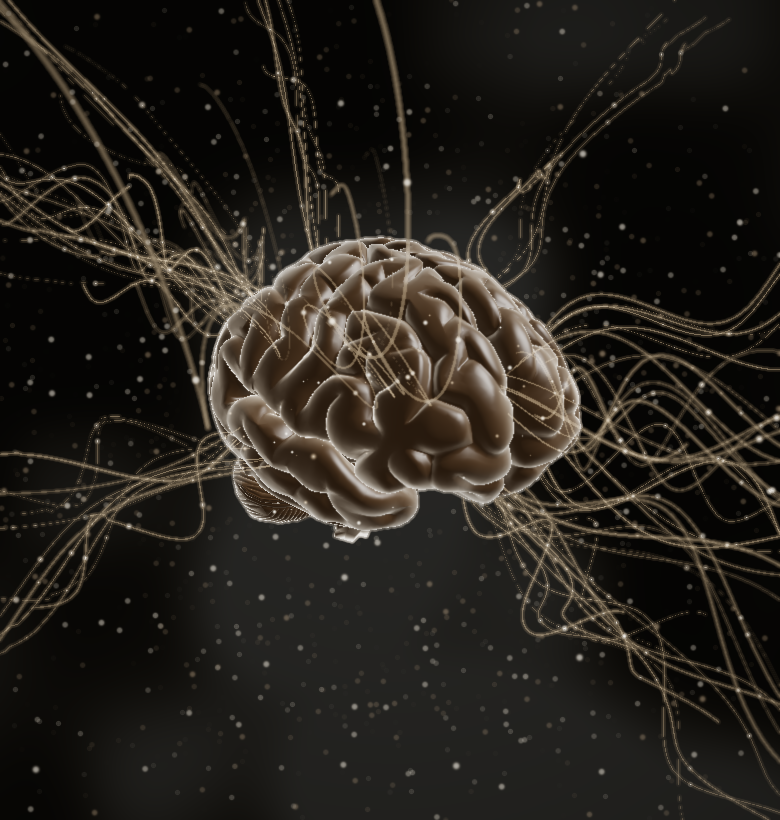
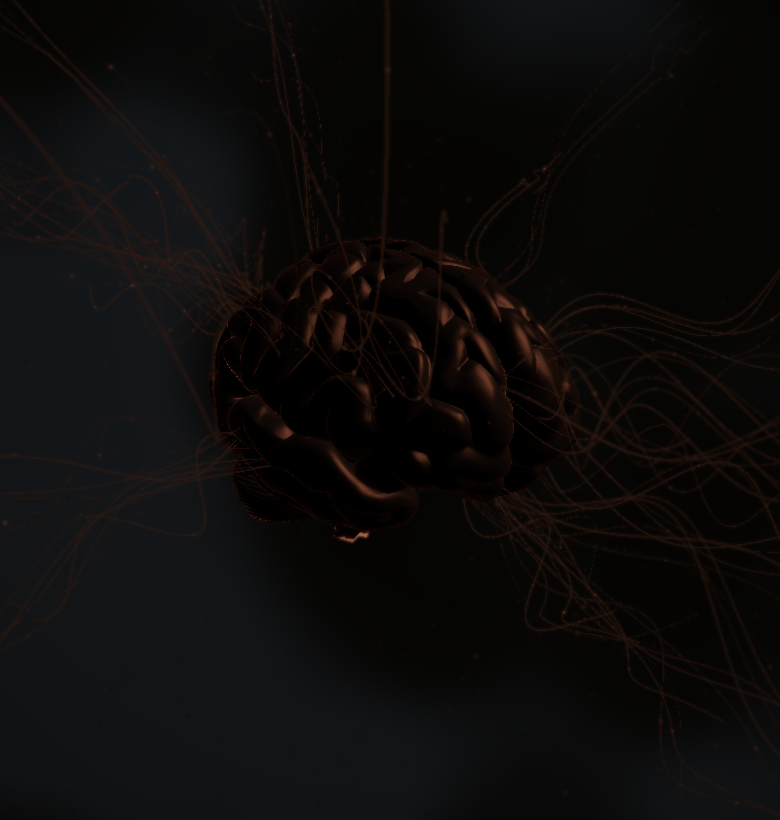
Apply accepted brown-black art and subscriber story

diff --git a/src/components/home/digital-brain/art/shaders/brain-brain.frag.js b/src/components/home/digital-brain/art/shaders/brain-brain.frag.js
@@ -1,4 +1,4 @@
 // Adapted from Digital Brain, Copyright (c) 2026 Sahil K (MIT).
 // See /uploads/digital-brain-foundation/CREDITS.md for source, license and modifications.
-const shaderCode = "uniform vec3 uBaseColor;\nuniform vec3 uFresnelColor;\nuniform float uFresnelPower;\nuniform float uFresnelIntensity;\n\nuniform float uSpecularIntensity;\nuniform float uSpecularShininess;\nuniform float uRoughness;\nuniform vec3 uLightPosition;\n\nuniform float uTime;\nuniform vec3 uElectricColor;\nuniform float uElectricIntensity;\nuniform float uElectricSpeed;\nuniform float uElectricFrequency;\n\nvarying vec3 vNormal;\nvarying vec3 vViewPosition;\nvarying vec3 vWorldPosition;\nvarying vec3 vWorldNormal;\n\nfloat specular(vec3 normal, vec3 viewDir, vec3 lightDir, float shininess) {\n    vec3 halfVector = normalize(lightDir + viewDir);\n    float specAngle = max(dot(halfVector, normal), 0.0);\n    return pow(specAngle, shininess);\n}\n\nfloat fresnel(vec3 normal, vec3 viewDir, float power) {\n    return pow(1.0 - max(dot(normal, viewDir), 0.0), power);\n}\n\nfloat ambientOcclusion(vec3 normal, vec3 viewDir) {\n    float ao = dot(normal, viewDir);\n    ao = smoothstep(0.0, 0.5, ao);\n    return mix(0.6, 1.0, ao);\n}\n\nvoid main() {\n    vec3 normal = normalize(vNormal);\n    vec3 viewDir = normalize(vViewPosition);\n    vec3 worldNormal = normalize(vWorldNormal);\n\n    vec3 lightDir = normalize(uLightPosition - vWorldPosition);\n\n    float diffuse = max(dot(worldNormal, lightDir), 0.0);\n    diffuse = mix(0.3, 1.0, diffuse);\n\n    float ao = ambientOcclusion(normal, viewDir);\n\n    vec3 color = uBaseColor * diffuse * ao;\n\n    float spec = specular(worldNormal, normalize(cameraPosition - vWorldPosition), lightDir, uSpecularShininess);\n\n    float roughnessFactor = 1.0 - uRoughness;\n    spec *= roughnessFactor;\n\n    color += vec3(1.0) * spec * uSpecularIntensity;\n\n    float fresnelValue = fresnel(normal, viewDir, uFresnelPower);\n    vec3 rimLight = uFresnelColor * fresnelValue * uFresnelIntensity;\n    color += rimLight;\n\n    float edgeGlow = pow(fresnelValue, 3.0) * 0.3;\n    color += vec3(1.0) * edgeGlow;\n\n    float electricEdge = pow(fresnelValue, 1.5);\n\n    float wave1 = sin(vWorldPosition.y * uElectricFrequency + uTime * uElectricSpeed) * 0.5 + 0.5;\n    float wave2 = sin(vWorldPosition.x * uElectricFrequency * 1.3 - uTime * uElectricSpeed * 0.8) * 0.5 + 0.5;\n    float wave3 = sin(vWorldPosition.z * uElectricFrequency * 0.7 + uTime * uElectricSpeed * 1.2) * 0.5 + 0.5;\n\n    float electricPulse = wave1 * 0.5 + wave2 * 0.3 + wave3 * 0.2;\n    electricPulse = pow(electricPulse, 2.0);\n\n    float electricHighlight = electricEdge * electricPulse;\n    electricHighlight = pow(electricHighlight, 0.8);\n\n    vec3 electricGlow = uElectricColor * electricHighlight * uElectricIntensity;\n\n    float sparkle = pow(electricHighlight, 3.0) * 2.0;\n    electricGlow += vec3(1.0, 0.9, 0.8) * sparkle;\n\n    color += electricGlow;\n\n    gl_FragColor = vec4(color, 1.0);\n}\n";
+const shaderCode = "uniform vec3 uBaseColor;\nuniform vec3 uFresnelColor;\nuniform float uFresnelPower;\nuniform float uFresnelIntensity;\n\nuniform float uSpecularIntensity;\nuniform vec3 uHighlightColor;\nuniform float uEdgeIntensity;\nuniform float uDiffuseFloor;\nuniform float uDiffuseIntensity;\nuniform float uOcclusionFloor;\nuniform float uSpecularShininess;\nuniform float uRoughness;\nuniform vec3 uLightPosition;\n\nuniform float uTime;\nuniform vec3 uElectricColor;\nuniform float uElectricIntensity;\nuniform float uElectricSpeed;\nuniform float uElectricFrequency;\n\nvarying vec3 vNormal;\nvarying vec3 vViewPosition;\nvarying vec3 vWorldPosition;\nvarying vec3 vWorldNormal;\n\nfloat specular(vec3 normal, vec3 viewDir, vec3 lightDir, float shininess) {\n    vec3 halfVector = normalize(lightDir + viewDir);\n    float specAngle = max(dot(halfVector, normal), 0.0);\n    return pow(specAngle, shininess);\n}\n\nfloat fresnel(vec3 normal, vec3 viewDir, float power) {\n    return pow(1.0 - max(dot(normal, viewDir), 0.0), power);\n}\n\nfloat ambientOcclusion(vec3 normal, vec3 viewDir) {\n    float ao = dot(normal, viewDir);\n    ao = smoothstep(0.0, 0.5, ao);\n    return mix(uOcclusionFloor, 1.0, ao);\n}\n\nvoid main() {\n    vec3 normal = normalize(vNormal);\n    vec3 viewDir = normalize(vViewPosition);\n    vec3 worldNormal = normalize(vWorldNormal);\n\n    vec3 lightDir = normalize(uLightPosition - vWorldPosition);\n\n    float diffuse = max(dot(worldNormal, lightDir), 0.0);\n    diffuse = mix(uDiffuseFloor, uDiffuseIntensity, diffuse);\n\n    float ao = ambientOcclusion(normal, viewDir);\n\n    vec3 color = uBaseColor * diffuse * ao;\n\n    float spec = specular(worldNormal, normalize(cameraPosition - vWorldPosition), lightDir, uSpecularShininess);\n\n    float roughnessFactor = 1.0 - uRoughness;\n    spec *= roughnessFactor;\n\n    color += uHighlightColor * spec * uSpecularIntensity;\n\n    float fresnelValue = fresnel(normal, viewDir, uFresnelPower);\n    vec3 rimLight = uFresnelColor * fresnelValue * uFresnelIntensity;\n    color += rimLight;\n\n    float edgeGlow = pow(fresnelValue, 3.0) * uEdgeIntensity;\n    color += uHighlightColor * edgeGlow;\n\n    float electricEdge = pow(fresnelValue, 1.5);\n\n    float wave1 = sin(vWorldPosition.y * uElectricFrequency + uTime * uElectricSpeed) * 0.5 + 0.5;\n    float wave2 = sin(vWorldPosition.x * uElectricFrequency * 1.3 - uTime * uElectricSpeed * 0.8) * 0.5 + 0.5;\n    float wave3 = sin(vWorldPosition.z * uElectricFrequency * 0.7 + uTime * uElectricSpeed * 1.2) * 0.5 + 0.5;\n\n    float electricPulse = wave1 * 0.5 + wave2 * 0.3 + wave3 * 0.2;\n    electricPulse = pow(electricPulse, 2.0);\n\n    float electricHighlight = electricEdge * electricPulse;\n    electricHighlight = pow(electricHighlight, 0.8);\n\n    vec3 electricGlow = uElectricColor * electricHighlight * uElectricIntensity;\n\n    float sparkle = pow(electricHighlight, 3.0) * 2.0;\n    electricGlow += uHighlightColor * sparkle;\n\n    color += electricGlow;\n\n    gl_FragColor = vec4(color, 1.0);\n}\n";
 export default shaderCode;

diff --git a/src/components/home/digital-brain/home.tsx b/src/components/home/digital-brain/home.tsx
@@ -12,7 +12,7 @@ export function DigitalBrainHome() {
     <Link href="#story-reading" className="skip">Skip to the story</Link>
     <header className="site-nav">
       <Link href="/" className="wordmark" aria-label="ExpertHub homepage">Expert<span>Hub</span><i aria-hidden="true">✳</i></Link>
-      <nav aria-label="Main navigation"><Link href="#plans">Pricing</Link><Link href="#apply-expert">Apply</Link><Link href="/login">Sign in</Link></nav>
+      <nav aria-label="Main navigation"><Link href="#plans">Pricing</Link><Link href="#apply-expert">Apply</Link><Link href="/login">Explore experts</Link></nav>
     </header>
     <BrainRuntime />
     <div className="viewport">
@@ -22,24 +22,23 @@ export function DigitalBrainHome() {
         <h2>{perspective.title}</h2><p>{perspective.subtitle}</p>
       </div>)}</div>
       <div className="scroll-hint" aria-hidden="true"><svg width="24" height="32" viewBox="0 0 24 32"><path d="M12 4 L12 24 M12 24 L8 20 M12 24 L16 20" stroke="currentColor" strokeWidth=".5" fill="none" /></svg><i /></div>
-      <div className="source-progress" aria-hidden="true"><i className="corner left" /><i className="corner right" /><div className="progress-track"><div data-progress-bar="" /></div><span data-progress-text="">000%</span></div>
     </div>
     <div data-smooth-wrapper=""><div data-smooth-content="">
     <main>
-      <section className="story-sequence" data-story-sequence="" aria-label="How shared knowledge becomes a Digital Twin">
+      <section className="story-sequence" data-story-sequence="" aria-label="Explore expert content and AI conversations">
         <div className="reading-story" id="story-reading" tabIndex={-1}>
           <Image className="reading-poster" src="/uploads/digital-brain-foundation/brain-poster-dark.png" width={780} height={820} alt="A warm dark brain sculpture with fine brown threads, used as an illustration of shared knowledge." priority unoptimized />
           {chapters.map((chapter, index) => <section key={chapter.id} id={chapter.id} aria-labelledby={`heading-${chapter.id}`}>
             <p className="eyebrow">{chapter.label}</p>
             {index === 0 ? <h1 id={`heading-${chapter.id}`}>{chapter.title}</h1> : <h2 id={`heading-${chapter.id}`}>{chapter.title}</h2>}
             <p>{chapter.body}</p>
-            {(index === 0 || index === 6) && <div className="action-group"><Link className="cta primary" href="/login">Sign in to explore <span aria-hidden="true">↗</span></Link><Link className="cta secondary" href="#apply-expert">Apply as an expert</Link></div>}
+            {(index === 0 || index === 6) && <div className="action-group"><Link className="cta primary" href="/login">Explore experts <span aria-hidden="true">↗</span></Link><Link className="cta secondary" href="#plans">View pricing</Link></div>}
           </section>)}
         </div>
       </section>
       <section className="product-continuation" id="plans" aria-labelledby="plans-heading">
-        <div className="section-heading"><p className="eyebrow">Access, on your terms</p><h2 id="plans-heading" tabIndex={-1}>Choose an expert.<br />Review their plan.</h2><p>Each expert sets their paid plan prices. Free access and trial questions vary by expert. Review their plan before subscribing.</p><Link className="text-link" href="/pricing">Access and pricing details <span aria-hidden="true">↗</span></Link></div>
-        <div className="pricing-plans">{publicPricingTiers.map(tier => <article key={tier.name}><p className="eyebrow">{tier.name}</p><h3>{tier.price} <small>{tier.period}</small></h3><p>{tier.description}</p><ul>{tier.features.map(feature => <li key={feature}>{feature}</li>)}</ul><Link className="text-link" href={tier.href}>{tier.href === "/login" ? "Sign in to explore" : tier.cta} <span aria-hidden="true">↗</span></Link></article>)}</div>
+        <div className="section-heading"><p className="eyebrow">Access, on your terms</p><h2 id="plans-heading" tabIndex={-1}>Choose an expert.<br />Review their plan.</h2><p>Each expert sets their paid plan prices. Free access and trial questions vary by expert. Review their plan before subscribing.</p><Link className="text-link" href="/login">Explore experts <span aria-hidden="true">↗</span></Link></div>
+        <div className="pricing-plans">{publicPricingTiers.map(tier => <article key={tier.name}><p className="eyebrow">{tier.name}</p><h3>{tier.price} <small>{tier.period}</small></h3><p>{tier.description}</p><ul>{tier.features.map(feature => <li key={feature}>{feature}</li>)}</ul><Link className="text-link" href={tier.href}>{tier.href === "/login" ? "Explore experts" : tier.cta} <span aria-hidden="true">↗</span></Link></article>)}</div>
         <ExpertApplicationSection />
       </section>
     </main>

diff --git a/src/components/home/digital-brain/source-perspectives.ts b/src/components/home/digital-brain/source-perspectives.ts
@@ -24,32 +24,32 @@ export interface ScenePerspective {
 
 export const scenePerspectives: ScenePerspective[] = [
   {
-    title: 'KNOWLEDGE',
-    subtitle: 'Give it a new way to speak.',
+    title: 'EXPERT AI TWINS',
+    subtitle: 'Read their work. Talk to their AI twin.',
     position: 'center',
     camera: { x: 0, y: 2, z: 10 },
     target: { x: 0, y: 5, z: 0 },
     scrollProgress: { start: 0, end: 11.9 },
   },
   {
-    title: 'SHARE',
-    subtitle: 'Notes. PDFs. Blogs. Posts.',
+    title: 'FIND YOUR EXPERT',
+    subtitle: 'Find experts on topics you care about.',
     position: 'left',
     camera: { x: 3, y: 8, z: 10 },
     target: { x: 0, y: 10, z: 0 },
     scrollProgress: { start: 11.9, end: 23.7 },
   },
   {
-    title: 'IN CONTEXT',
-    subtitle: 'Connect passages and ideas.',
+    title: 'READ THEIR WORK',
+    subtitle: 'Explore the posts and ideas they share.',
     position: 'right',
     camera: { x: -10, y: 15, z: 0 },
     target: { x: 0, y: 15, z: 0 },
     scrollProgress: { start: 23.7, end: 35.6 },
   },
   {
-    title: 'YOUR TWIN',
-    subtitle: 'AI shaped by shared work.',
+    title: 'MEET THEIR AI',
+    subtitle: 'AI shaped by the expert’s shared knowledge.',
     position: 'top-left',
     camera: { x: -10, y: 22, z: 0 },
     target: { x: 0, y: 25, z: 0 },
@@ -65,40 +65,40 @@ export const scenePerspectives: ScenePerspective[] = [
     hideText: true,
   },
   {
-    title: 'ASK',
-    subtitle: 'Ask. Then follow up.',
+    title: 'ASK AWAY',
+    subtitle: 'Bring a question. Talk it through with AI.',
     position: 'center',
     camera: { x: 5, y: 30, z: 10 },
     target: { x: 0, y: 20, z: 0 },
     scrollProgress: { start: 52.5, end: 62.7 },
   },
   {
-    title: 'SOURCES',
-    subtitle: 'Check the answer’s sources.',
+    title: 'GO DEEPER',
+    subtitle: 'Ask a follow-up. Explore another angle.',
     position: 'bottom-right',
     camera: { x: 5, y: 25, z: 10 },
     target: { x: 0, y: 20, z: 0 },
     scrollProgress: { start: 62.7, end: 69.5 },
   },
   {
-    title: 'REFINE',
-    subtitle: 'Correct notes manually.',
+    title: 'NEW IDEAS',
+    subtitle: 'Explore an idea from another point of view.',
     position: 'bottom-left',
     camera: { x: 15, y: 20, z: 5 },
     target: { x: 0, y: 24, z: 0 },
     scrollProgress: { start: 69.5, end: 77.9 },
   },
   {
-    title: 'VERIFY',
-    subtitle: 'AI can be wrong. Check.',
+    title: 'CHOOSE A PLAN',
+    subtitle: 'Review their plan for available access.',
     position: 'top',
     camera: { x: 25, y: 15, z: 0 },
     target: { x: 0, y: 20, z: 0 },
     scrollProgress: { start: 77.9, end: 84.7 },
   },
   {
-    title: 'TALK',
-    subtitle: 'Start a conversation.',
+    title: 'START TALKING',
+    subtitle: 'Choose an expert. Start with a question.',
     position: 'center',
     camera: { x: 20, y: 20, z: -10 },
     target: { x: 0, y: 20, z: 0 },

diff --git a/src/components/home/digital-brain/timeline.ts b/src/components/home/digital-brain/timeline.ts
@@ -1,11 +1,11 @@
 // Semantic seven-chapter copy. Cinematic motion and ten text slots use the
 // pinned source engine in source-motion.ts and source-perspectives.ts.
 export const chapters = [
-  { id: "introduction", label: "ExpertHub", title: "Give your knowledge a new way to speak.", body: "An AI Digital Twin, shaped by the work you choose to share.", side: "left" },
-  { id: "contributions", label: "Share", title: "Begin with what you’ve put into words.", body: "Bring together your notes, PDFs, blog articles and posts.", side: "left" },
-  { id: "context", label: "Connect", title: "An idea means more in context.", body: "Selected passages and related ideas keep the question connected to your work.", side: "right" },
-  { id: "construction", label: "Represent", title: "Your shared knowledge, taking a new shape.", body: "One AI representation. Built from what you contribute, with the sources kept distinct.", side: "left" },
-  { id: "conversation", label: "Ask", title: "Ask a question. Follow the answer back.", body: "Explore an answer, ask a follow-up and check its available sources.", side: "right" },
-  { id: "control", label: "Keep it current", title: "You shape what it represents.", body: "Add new material and manually correct your shared notes as your thinking changes.", side: "left" },
-  { id: "close", label: "Start a conversation", title: "What you know can start a conversation.", body: "Learn from an expert’s Digital Twin, or apply to share your own expertise.", side: "left" },
+  { id: "introduction", label: "ExpertHub", title: "Learn from expert Digital Twins.", body: "Read their work. Talk to their AI twin.", side: "left" },
+  { id: "contributions", label: "Discover", title: "Find your expert.", body: "Find experts on topics you care about.", side: "left" },
+  { id: "context", label: "Read", title: "Read their work.", body: "Explore the posts and ideas they share.", side: "right" },
+  { id: "construction", label: "AI Digital Twin", title: "Meet their AI Digital Twin.", body: "AI shaped by the expert’s shared knowledge.", side: "left" },
+  { id: "conversation", label: "Ask", title: "Ask a question. Keep talking.", body: "Bring a question, ask a follow-up and explore another angle.", side: "right" },
+  { id: "control", label: "Access", title: "Choose a plan.", body: "Review their plan for available access.", side: "left" },
+  { id: "close", label: "Start", title: "Start your next conversation.", body: "Choose an expert. Start with a question.", side: "left" },
 ] as const;

diff --git a/__tests__/digital-brain-source-ownership.test.ts b/__tests__/digital-brain-source-ownership.test.ts
@@ -7,9 +7,8 @@ jest.mock("gsap", () => {
   const core = {
     registerPlugin: jest.fn(),
     context: () => { const ctx = { owned: [] as {alive:boolean;kind:string}[], add: (fn: () => void) => { const previous = state.active; state.active = ctx; fn(); state.active = previous; }, revert: () => ctx.owned.forEach(r => { r.alive = false; }) }; return ctx; },
-    quickSetter: () => { if (state.fail === "after-smoother") throw new Error("setup setter failure"); return () => {}; },
     set: jest.fn(),
-    timeline: () => { state.timelineCalls++; const r = resource("timeline"); const tl = { to: () => tl, fromTo: () => { if (state.fail === "text-tween") throw new Error("setup tween failure"); return tl; }, progress: () => 0, kill: () => { r.alive = false; } }; return tl; },
+    timeline: () => { if (state.fail === "after-smoother") throw new Error("setup timeline failure"); state.timelineCalls++; const r = resource("timeline"); const tl = { to: () => tl, fromTo: () => { if (state.fail === "text-tween") throw new Error("setup tween failure"); return tl; }, progress: () => 0, kill: () => { r.alive = false; } }; return tl; },
   };
   return { __esModule: true, default: core, __state: state, __resource: resource };
 });
@@ -26,7 +25,7 @@ type MockState = { resources: {alive:boolean;kind:string}[]; fail:string; splitC
 const state = () => jest.requireMock("gsap").__state as MockState;
 function fixture() {
   const root = document.createElement("div");
-  root.innerHTML = '<div data-smooth-wrapper><div data-smooth-content><div data-story-sequence></div></div></div><div data-progress-bar></div><span data-progress-text></span>' + Array.from({length:10},(_,i)=>`<div data-source-slot="${i}"><h2>Title</h2><p>Subtitle</p></div>`).join("");
+  root.innerHTML = '<div data-smooth-wrapper><div data-smooth-content><div data-story-sequence></div></div></div>' + Array.from({length:10},(_,i)=>`<div data-source-slot="${i}"><h2>Title</h2><p>Subtitle</p></div>`).join("");
   document.body.append(root); return root;
 }
 beforeEach(() => { document.body.innerHTML = ""; Object.assign(state(), {resources:[],fail:"",splitCalls:0,timelineCalls:0,active:null}); Object.defineProperty(document,"fonts",{configurable:true,value:{ready:Promise.resolve()}}); });

diff --git a/src/components/home/digital-brain/home.module.css b/src/components/home/digital-brain/home.module.css
@@ -104,13 +104,6 @@
 .home :global(.scroll-hint) { position:absolute; left:24px; top:50%; transform:translateY(-50%); display:flex; flex-direction:column; align-items:center; gap:16px; z-index:4; pointer-events:none; color:var(--muted); }
 .home :global(.scroll-hint svg) { filter:drop-shadow(0 0 4px rgba(var(--veil),.3)); }
 .home :global(.scroll-hint i) { width:4px; height:4px; border-radius:50%; background:var(--muted); box-shadow:0 0 6px rgba(var(--veil),.4); }
-.home :global(.source-progress) { position:absolute; left:50%; transform:translateX(-50%); bottom:13svh; width:250px; z-index:4; pointer-events:none; }
-.home :global(.progress-track) { height:1px; background:color-mix(in srgb,var(--ink) 10%,transparent); position:relative; }
-.home :global([data-progress-bar]) { position:absolute; top:0; left:0; height:100%; width:0; background:linear-gradient(to right,color-mix(in srgb,var(--accent) 60%,transparent),var(--accent)); box-shadow:0 0 8px color-mix(in srgb,var(--accent) 50%,transparent); }
-.home :global([data-progress-text]) { position:absolute; top:-24px; left:50%; transform:translateX(-50%); font:10px monospace; color:var(--muted); letter-spacing:.2em; }
-.home :global(.corner) { position:absolute; top:-12px; width:12px; height:12px; border-top:1px solid var(--line); }
-.home :global(.corner.left) { left:0; border-left:1px solid var(--line); }
-.home :global(.corner.right) { right:0; border-right:1px solid var(--line); }
 .home:not([data-motion-ready="true"]) :global(.visual-captions) { visibility:hidden; }
 .home[data-renderer="ready"][data-on-story="false"] :global(.viewport), .home[data-renderer="ready"][data-on-story="false"] :global(.motion-toolbar) { visibility:hidden; pointer-events:none; }
 :global(html):has(.home[data-renderer="ready"]) { scroll-behavior:auto; }

diff --git a/__tests__/digital-brain-timeline.test.ts b/__tests__/digital-brain-timeline.test.ts
@@ -12,16 +12,15 @@ test("the source's ten unequal slots retain one text-free elevation and nine vis
   expect(scenePerspectives.filter(slot => !slot.hideText && slot.title && slot.subtitle)).toHaveLength(9);
 });
 
-test("full semantic headings remain while compact cinematic copy keeps source-like character counts", () => {
+test("subscriber story retains seven semantic sections and sparse AI-identified cinematic copy", () => {
   expect(chapters).toHaveLength(7);
-  expect(chapters[0].title).toBe("Give your knowledge a new way to speak.");
-  expect(chapters[6].title).toBe("What you know can start a conversation.");
-  expect(scenePerspectives[1].subtitle).toContain("PDFs");
+  expect(chapters[0].title).toBe("Learn from expert Digital Twins.");
+  expect(chapters[6].title).toBe("Start your next conversation.");
+  expect(scenePerspectives[0].subtitle).toContain("AI twin");
   expect(scenePerspectives[3].subtitle).toContain("AI");
-  expect(scenePerspectives[7].subtitle).toContain("manually");
-  expect(scenePerspectives[8].subtitle).toContain("wrong");
-  const sourceCounts = [34, 26, 39, 34, 0, 23, 30, 25, 26, 20];
-  scenePerspectives.forEach((slot, i) => expect(Math.abs(slot.title.length + slot.subtitle.length - sourceCounts[i])).toBeLessThanOrEqual(6));
+  expect(scenePerspectives[8].subtitle).toContain("access");
+  expect(scenePerspectives.filter(slot => !slot.hideText).flatMap(slot => `${slot.title} ${slot.subtitle}`.split(/\s+/))).toHaveLength(87);
+  scenePerspectives.filter(slot => !slot.hideText).forEach(slot => expect(slot.title.length + slot.subtitle.length).toBeLessThanOrEqual(56));
 });
 
 test("bounds retarget maps both centers and axis extents without deforming the model", () => {

diff --git a/__tests__/digital-brain-source-context.test.ts b/__tests__/digital-brain-source-context.test.ts
@@ -20,7 +20,7 @@ test("failed setup restores real GSAP context and cannot capture an unrelated tw
   expect(gsap.version).toBe("3.13.0");
   Object.defineProperty(document, "fonts", { configurable: true, value: { ready: Promise.resolve() } });
   const root = document.createElement("div");
-  root.innerHTML = '<div data-smooth-wrapper><div data-smooth-content><div data-story-sequence></div></div></div><div data-progress-bar></div><span data-progress-text></span>';
+  root.innerHTML = '<div data-smooth-wrapper><div data-smooth-content><div data-story-sequence></div></div></div>';
   document.body.append(root);
   const actualCore = gsap.core as typeof gsap.core & { context: () => gsap.Context | undefined };
   const previous = actualCore.context();
@@ -30,7 +30,7 @@ test("failed setup restores real GSAP context and cannot capture an unrelated tw
     owned = contextFactory(callback, scope);
     return owned;
   });
-  const setterSpy = jest.spyOn(gsap, "quickSetter").mockImplementation(() => { throw new Error("injected setup failure"); });
+  const timelineSpy = jest.spyOn(gsap, "timeline").mockImplementation(() => { throw new Error("injected setup failure"); });
   let unrelated: gsap.core.Tween | undefined;
   try {
     await expect(createSourceMotion(root, new AbortController().signal, () => {})).rejects.toThrow("injected setup failure");
@@ -47,7 +47,7 @@ test("failed setup restores real GSAP context and cannot capture an unrelated tw
   } finally {
     unrelated?.kill();
     owned?.revert();
-    setterSpy.mockRestore();
+    timelineSpy.mockRestore();
     contextSpy.mockRestore();
     gsap.ticker.sleep();
     root.remove();

diff --git a/src/components/home/digital-brain/art/brain.js b/src/components/home/digital-brain/art/brain.js
@@ -47,6 +47,11 @@ export default class Brain {
         uFresnelIntensity: { value: 1.2 },
 
         uSpecularIntensity: { value: 0.6 },
+        uHighlightColor: { value: new THREE.Color(0xffffff) },
+        uEdgeIntensity: { value: .3 },
+        uDiffuseFloor: { value: .3 },
+        uDiffuseIntensity: { value: 1 },
+        uOcclusionFloor: { value: .6 },
         uSpecularShininess: { value: 32.0 },
         uRoughness: { value: 0.3 },
 
@@ -404,6 +409,13 @@ export default class Brain {
     this.material.uniforms.uElectricColor.value.set(palette.electric);
     this.material.uniforms.uElectricIntensity.value = palette.electricIntensity;
     this.material.uniforms.uFresnelIntensity.value = palette.rimIntensity;
+    this.material.uniforms.uHighlightColor.value.set(palette.highlight ?? '#ffffff');
+    this.material.uniforms.uSpecularIntensity.value = palette.specularIntensity ?? .6;
+    this.material.uniforms.uRoughness.value = palette.roughness ?? .3;
+    this.material.uniforms.uEdgeIntensity.value = palette.edgeIntensity ?? .3;
+    this.material.uniforms.uDiffuseFloor.value = palette.diffuseFloor ?? .3;
+    this.material.uniforms.uDiffuseIntensity.value = palette.diffuseIntensity ?? 1;
+    this.material.uniforms.uOcclusionFloor.value = palette.occlusionFloor ?? .6;
     if (this.grooveParticlesMaterial) {
       this.grooveParticlesMaterial.uniforms.uColor1.value.set(palette.brass);
       this.grooveParticlesMaterial.uniforms.uColor2.value.set(palette.ivory);

diff --git a/src/components/home/digital-brain/art/scene.js b/src/components/home/digital-brain/art/scene.js
@@ -12,10 +12,11 @@ import Brain from './brain.js';
 import SkyDome from './sky.js';
 import { SparkleParticleSystem } from './sparkles.js';
 import { VignettePass } from './vignette.js';
+import { acceptedBrownBlackMaterial } from './accepted-material.js';
 
 const palettes = {
   light: { background: '#f7f6f2', brain: '#b6a086', rim: '#eee7da', electric: '#877564', thread: '#796b59', brass: '#978773', ivory: '#eee7da', sky: '#b7a790', electricIntensity: .45, rimIntensity: .4, additive: false },
-  dark: { background: '#151411', brain: '#66503a', rim: '#eee7da', electric: '#9e8b73', thread: '#8f806a', brass: '#a5947e', ivory: '#eee7da', sky: '#665b49', electricIntensity: .65, rimIntensity: .55, additive: true },
+  dark: { background: '#151411', ...acceptedBrownBlackMaterial, thread: '#432d23', brass: '#231814', ivory: '#573829', sky: '#2c1f19', sparkleBrightness: .65, additive: false },
 };
 // A canvas can retain a deliberately lost context between reading/animation modes.
 // Keep only a weak recovery handle; removed canvases remain collectible.

diff --git a/src/components/home/digital-brain/source-motion.ts b/src/components/home/digital-brain/source-motion.ts
@@ -53,16 +53,12 @@ export async function createSourceMotion(root: HTMLElement, signal: AbortSignal,
     context.add(() => {
       try {
         smoother = ScrollSmoother.create({ wrapper, content, smooth: 4, effects: false, smoothTouch: 2 });
-        const setProgressWidth = gsap.quickSetter(root.querySelector("[data-progress-bar]"), "width", "%");
-        const setProgressText = gsap.quickSetter(root.querySelector("[data-progress-text]"), "textContent");
         const timeline = gsap.timeline({
           scrollTrigger: {
             trigger: container, start: "top top", end: "bottom bottom", scrub: true,
             onUpdate: self => {
               progress = self.progress;
               wake();
-              setProgressWidth(progress * 100);
-              setProgressText(Math.round(progress * 100).toString().padStart(3, "0") + "%");
             },
           },
         });

diff --git a/src/components/home/digital-brain/art/accepted-material.js b/src/components/home/digital-brain/art/accepted-material.js
@@ -1,0 +1,8 @@
+// Exact mesh material accepted from ExpertHub-dark-brown-black.png.
+// Library: libfile_7bcac11a181c819193db659f598f7c8e. Accessories are reviewed separately.
+export const acceptedBrownBlackMaterial = {
+  brain: '#1c1410', rim: '#523426', electric: '#38251b', highlight: '#704735',
+  diffuseFloor: .10, diffuseIntensity: 1.75, occlusionFloor: .08,
+  rimIntensity: .24, electricIntensity: .12, specularIntensity: .95,
+  edgeIntensity: .09, roughness: .17,
+};
